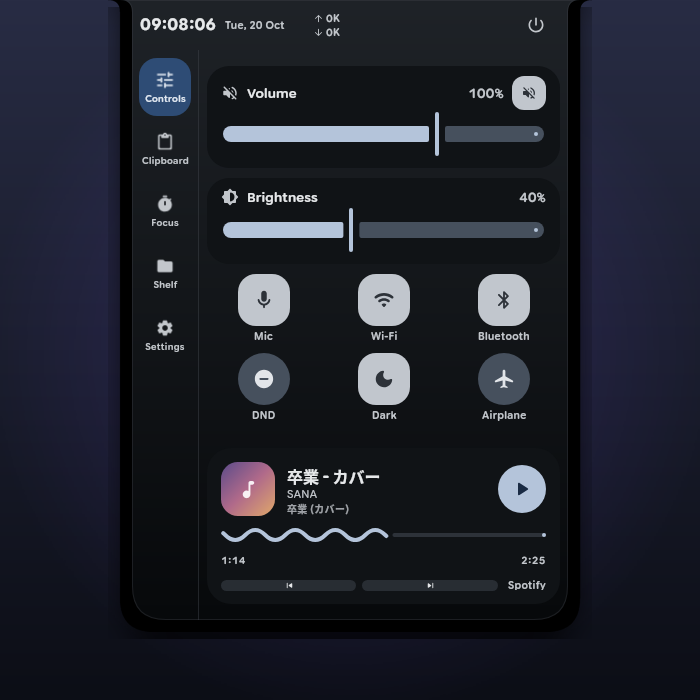
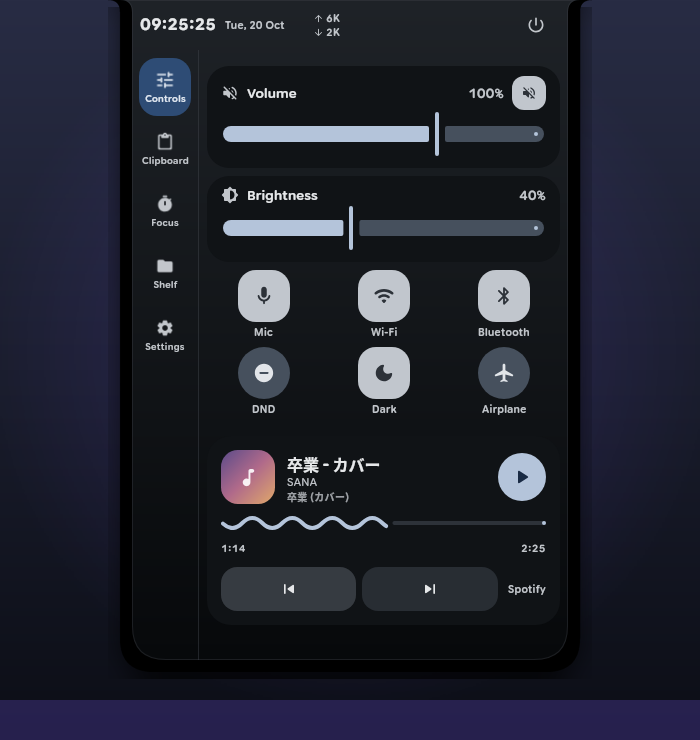
fix(ui): stop clipping the player in Controls
The Controls tab packs two slider cards, two toggle rows and the full player
into the expanded panel. With a track that reports progress the card ran past
the island edge and the transport row was cut off.

The expanded panel is now 660 dp tall (was 620), Controls uses 8 dp gaps instead
of 10, and the player sits 4 dp under the toggles. Verified on the installed
build: the last content row is 610 px with the island bottom at 660 px, so the
card keeps a 50 px margin, and the bottom 24 px of the panel contain no content.

README is rewritten in English around what the app does and how to use it, with
the closed bar as the hero image and the expanded panel explained further down.
Screenshots retaken on 1.0.2.

Bumps to 1.0.2.

diff --git a/ui/src/commonMain/kotlin/id/andreasmlbngaol/xtray/ui/modules/ControlsModule.kt b/ui/src/commonMain/kotlin/id/andreasmlbngaol/xtray/ui/modules/ControlsModule.kt
@@ -115,7 +115,7 @@ class ControlsModule(private val services: IslandServices) : IslandModule {
 
         Column(
             modifier = Modifier.fillMaxSize(),
-            verticalArrangement = Arrangement.spacedBy(10.dp),
+            verticalArrangement = Arrangement.spacedBy(8.dp),
         ) {
             LevelCard(
                 title = "Volume",
@@ -238,7 +238,7 @@ class ControlsModule(private val services: IslandServices) : IslandModule {
             }
 
             if (services.settings.current.mediaEnabled && services.mediaTrack != null) {
-                Spacer(modifier = Modifier.height(6.dp))
+                Spacer(modifier = Modifier.height(4.dp))
                 MediaPlayerCard(services)
             }
         }

diff --git a/ui/src/commonMain/kotlin/id/andreasmlbngaol/xtray/ui/island/IslandDimens.kt b/ui/src/commonMain/kotlin/id/andreasmlbngaol/xtray/ui/island/IslandDimens.kt
@@ -56,7 +56,8 @@ object IslandDimens {
 
     val Expanded = IslandSize(
         width = 460.dp,
-        height = 620.dp,
+        // Tall enough for Controls with the player card and its progress rows.
+        height = 660.dp,
         bottomRadius = 34.dp,
         filletRadius = 12.dp,
     )

diff --git a/README.md b/README.md
@@ -2,7 +2,7 @@
 
 # X-Tray
 
-**Dynamic Island untuk desktop Linux.**
+**A Dynamic Island for the Linux desktop.**
 
 [![Kotlin](https://img.shields.io/badge/Kotlin-2.4.21-7F52FF?style=for-the-badge&logo=kotlin&logoColor=white)](https://kotlinlang.org/)
 [![Compose Multiplatform](https://img.shields.io/badge/Compose%20Multiplatform-1.13-4285F4?style=for-the-badge&logo=jetpackcompose&logoColor=white)](https://www.jetbrains.com/compose-multiplatform/)
@@ -11,154 +11,154 @@
 [![Release](https://img.shields.io/github/v/release/andreasmlbngaol/x-tray?style=for-the-badge&logo=github&color=6E40C9)](https://github.com/andreasmlbngaol/x-tray/releases)
 [![License: Apache 2.0](https://img.shields.io/badge/License-Apache%202.0-D22128?style=for-the-badge&logo=apache&logoColor=white)](./LICENSE)
 
-<img src="docs/images/hero.png" alt="X-Tray dalam mode closed di tengah atas layar" width="760">
+<img src="docs/images/hero.png" alt="X-Tray closed, docked at the top centre of the screen" width="760">
 
 </div>
 
-X-Tray adalah satu panel kecil yang menempel di tengah atas layar. Saat tidak
-dipakai ia cuma selebar 300 px: jam, tanggal, kecepatan internet, dan baterai.
-Begitu kursor mendekat ia membesar untuk menampilkan musik dan notifikasi, dan
-kalau diklik ia terbuka penuh berisi kontrol cepat, clipboard, timer fokus,
-shelf, dan pengaturan.
+X-Tray is a single panel that sits at the top centre of your screen. At rest it
+is only 300 px wide: the time, the date, network speed, and the battery. When
+your pointer gets close it grows to show what is playing and the latest
+notification, and when you click it, it opens fully with quick controls, the
+clipboard, a focus timer, the shelf, and settings.
 
-Tidak ada window yang perlu dibuka, tidak ada ikon tambahan di taskbar. Semua
-yang biasanya tersebar di beberapa tempat diringkas jadi satu panel yang bisa
-dipanggil kapan saja.
+No window to keep around, no extra taskbar icon. Everything you usually look
+for in five different places lives in one panel you can summon from the top
+edge.
 
-## Yang bisa kamu lakukan
+## What it does
 
-- **Lihat sekilas tanpa klik.** Jam, tanggal, kecepatan upload/download, dan
-  baterai selalu ada di bar kecil itu.
-- **Dengar musik tanpa pindah aplikasi.** Judul, artis, dan album muncul di
-  peek; tombol putar, sebelumnya, dan berikutnya ada di sana.
-- **Baca notifikasi di satu tempat.** X-Tray mengambil alih notifikasi desktop,
-  jadi popup bawaan berhenti dan semua notifikasi masuk ke island.
-- **Atur volume dan kecerahan.** Dua slider, plus tombol mic, Wi-Fi, Bluetooth,
-  DND, mode gelap, dan airplane.
-- **Salin ulang teks lama.** Riwayat clipboard tersimpan selama aplikasi
-  berjalan; klik satu item untuk menyalinnya lagi.
-- **Simpan file sementara.** Tarik file ke island, lihat thumbnail gambar dan
-  video, buka atau hapus saat hover, dan tarik keluar lagi ke file manager.
-- **Fokus tanpa gangguan.** Timer dengan durasi bebas, hitung mundur besar di
-  peek, dan notifikasi saat sesi selesai.
-- **Sembunyikan saat tidak perlu.** Klik kanan membuatnya jadi garis tipis 120x6
-  di tepi atas; hover membukanya lagi.
+- **Glanceable at rest.** Time, date, upload and download speed, battery.
+- **Music without switching apps.** Title, artist, and album show up in peek,
+  with play, previous, and next buttons.
+- **One place for notifications.** X-Tray takes over desktop notifications, so
+  the stock popups stop and everything lands in the island.
+- **Volume and brightness.** Two sliders, plus mic, Wi-Fi, Bluetooth, do not
+  disturb, dark mode, and airplane.
+- **Clipboard history.** Every copied text stays in memory while the app runs;
+  click one to copy it again.
+- **A shelf for files.** Drag files onto the island, see thumbnails for images
+  and videos, open or delete them on hover, and drag them back out.
+- **Focus timer.** Type any duration, watch it count down in peek, get a
+  notification when the session ends.
+- **Out of the way when you want.** Right click shrinks it to a 120x6 hairline
+  at the top edge; hovering brings it back.
 
-## Tiga cara memakainya
+## How you use it
 
-<img src="docs/images/states.png" alt="Mode peek dan kartu notifikasi" width="900">
+<img src="docs/images/states.png" alt="Peek and the notification card" width="900">
 
-| Aksi | Yang terjadi |
+| You do | What happens |
 |---|---|
-| Diamkan | Bar kecil: jam, tanggal, kecepatan internet, baterai |
-| Arahkan kursor | Peek: jam bertumpuk, musik, notifikasi terbaru |
-| Klik | Expanded: semua modul terbuka |
-| Klik kanan | Menjadi garis tipis di tepi atas |
-| Tarik file | Shelf terbuka dan file masuk ke sana |
-| Esc / klik di luar | Menutup kembali ke bar kecil |
+| Leave it alone | Small bar: time, date, network speed, battery |
+| Move the pointer over it | Peek: stacked clock, music, latest notification |
+| Click | Expanded: every module |
+| Right click | Collapses to a hairline at the top edge |
+| Drag a file onto it | The shelf opens and takes the file |
+| Esc or click outside | Back to the small bar |
 
-Peek menutup sendiri saat kursor pergi. Expanded hanya menutup kalau kamu
-menekan Esc, mengklik di luar, atau berpindah window.
+Peek closes by itself when the pointer leaves. Expanded only closes on Esc, a
+click outside, or when you switch windows.
 
-## Expanded
+## The expanded panel
 
-<img src="docs/images/expanded.png" alt="X-Tray expanded dengan tab Controls" width="420">
+<img src="docs/images/expanded.png" alt="X-Tray expanded on the Controls tab" width="420">
 
-Rail di kiri berisi lima tab, dan **Controls** adalah tab pertama yang terbuka:
+The rail on the left has five tabs, and **Controls** is the one that opens by
+default:
 
-- **Controls** — volume, kecerahan, mic, Wi-Fi, Bluetooth, DND, mode gelap,
-  airplane, dan pemutar musik lengkap di bawah tombol-tombol itu.
-- **Focus** — timer fokus dengan durasi yang bisa diketik.
-- **Clipboard** — riwayat teks, klik untuk menyalin ulang.
-- **Shelf** — file yang kamu tarik ke island.
-- **Settings** — tema, warna aksen, reduce motion, autostart, perilaku hover,
-  pengambilalihan notifikasi, dan reset.
+- **Controls** — volume, brightness, mic, Wi-Fi, Bluetooth, do not disturb,
+  dark mode, airplane mode, and the full music player right under the buttons.
+- **Focus** — a focus timer with a duration you can type.
+- **Clipboard** — text history, click to copy again.
+- **Shelf** — the files you dragged onto the island.
+- **Settings** — theme, accent colour, reduce motion, autostart, hover timing,
+  notification takeover, and reset.
 
-Header di atas berisi jam, tanggal, kecepatan jaringan, tombol power, dan
-tombol tutup.
+The header above holds the clock, the date, network speed, a power menu, and the
+close button.
 
-## Notifikasi
+## Notifications
 
-Selama X-Tray berjalan, ia menjadi penerima notifikasi desktop. Saat bar dalam
-keadaan kecil, notifikasi masuk sebagai kartu 384x100 berisi nama aplikasi,
-judul, isi, dan tombol tutup. Saat peek, notifikasi muncul di baris bawah. Saat
-expanded, ia jadi banner di atas modul.
+While X-Tray runs, it is the desktop notification receiver. When the bar is
+small, a notification appears as a 384x100 card with the app name, title, body,
+and a close button. In peek it shows on the bottom row. In expanded it becomes a
+banner above the active module.
 
-Kalau kamu lebih suka popup bawaan desktop, matikan **Replace system
-notifications** di Settings. Saat X-Tray keluar, notifikasi desktop kembali
-normal dengan sendirinya.
+If you would rather keep the stock popups, turn off **Replace system
+notifications** in Settings. When X-Tray exits, the desktop gets notifications
+back on its own.
 
-## Pasang
+## Install
 
-### Dari rilis
+### From a release
 
-Unduh `.deb` terbaru dari [Releases](https://github.com/andreasmlbngaol/x-tray/releases),
-lalu:
+Download the latest `.deb` from [Releases](https://github.com/andreasmlbngaol/x-tray/releases),
+then:
 
 ```bash
-sudo apt install ./x-tray_1.0.1_amd64.deb
+sudo apt install ./x-tray_1.0.2_amd64.deb
 ```
 
-Setelah itu jalankan **X-Tray** dari menu aplikasi. Paket ini sudah membawa
-runtime Java-nya sendiri, jadi tidak perlu memasang JDK.
+Start **X-Tray** from your app menu. The package bundles its own Java runtime,
+so you do not need a JDK.
 
-### Dari source
+### From source
 
-Butuh JDK 21.
+You need JDK 21.
 
 ```bash
 ./gradlew :app:run
 ```
 
-Membuat paket sendiri:
+Build the package yourself:
 
 ```bash
 ./gradlew :app:packageReleaseDeb
 ```
 
-## Perintah cepat
+## Quick commands
 
-Saat aplikasi berjalan, perintah dikirim ke instance yang sama lewat socket:
+While the app is running, commands go to the same instance over a Unix socket:
 
 ```bash
-x-tray toggle        # buka/tutup expanded
-x-tray show          # tampilkan bar
-x-tray hide          # jadi garis tipis
-x-tray notify "Halo" # kirim notifikasi ke island
-x-tray dnd on        # jangan ganggu
-x-tray activity start 25 "Tulis laporan"
+x-tray toggle        # open or close the expanded panel
+x-tray show          # bring the bar back
+x-tray hide          # shrink to the hairline
+x-tray notify "Hi"   # send a notification into the island
+x-tray dnd on        # do not disturb
+x-tray activity start 25 "Write the report"
 x-tray quit
 ```
 
-Menjalankan `x-tray` lagi tanpa argumen tidak membuka window baru; ia hanya
-memunculkan instance yang sudah ada.
+Running `x-tray` again with no arguments does not open a second window; it just
+brings the running one forward.
 
-## Pengaturan yang sering dipakai
+## Settings worth knowing
 
-| Pengaturan | Gunanya |
+| Setting | What it does |
 |---|---|
-| Tema | Ikut sistem, selalu terang, atau selalu gelap |
-| Warna aksen | Lima preset atau kode HEX sendiri |
-| Reduce motion | Mematikan animasi kalau terasa mengganggu |
-| Autostart | Menjalankan X-Tray saat login |
-| Hide over maximized | Menyusut jadi garis saat ada window maximized |
-| Replace system notifications | Mengambil alih notifikasi desktop |
-| Jeda hover / tutup | Seberapa cepat peek terbuka dan menutup |
+| Theme | Follow the system, always light, or always dark |
+| Accent colour | Five presets or your own HEX code |
+| Reduce motion | Turns animations off |
+| Autostart | Start X-Tray when you log in |
+| Hide over maximized | Shrinks to the hairline while a maximized window is focused |
+| Replace system notifications | Takes over desktop notifications |
+| Hover and close delay | How quickly peek opens and closes |
 
-## Catatan
+## Notes
 
-- Berjalan di X11 dan di Wayland lewat XWayland.
-- Pengambilalihan notifikasi memakai helper notifikasi GNOME. Di desktop lain
-  X-Tray membiarkan notifikasi asli tetap hidup.
-- Ikon tray di GNOME perlu ekstensi AppIndicator.
-- Clipboard dan shelf hanya tersimpan selama aplikasi berjalan.
+- Works on X11 and on Wayland through XWayland.
+- Notification takeover relies on the GNOME notification helper. On other
+  desktops X-Tray leaves the original notifications alone.
+- The tray icon needs the AppIndicator extension on GNOME.
+- Clipboard and shelf are kept in memory only, for as long as the app runs.
 
-## Lisensi
+## License
 
-Kode X-Tray memakai **Apache License 2.0**. Lihat [LICENSE](./LICENSE).
+X-Tray is licensed under the **Apache License 2.0**. See [LICENSE](./LICENSE).
 
-Font **Google Sans Flex** dipakai dengan lisensi SIL Open Font License 1.1
-(`docs/licenses/google_sans_flex_OFL.txt`). PixelPlayer hanya dipelajari
-sebagai referensi desain; tidak ada kode atau asetnya yang disalin.
+The **Google Sans Flex** font is used under the SIL Open Font License 1.1
+(`docs/licenses/google_sans_flex_OFL.txt`). PixelPlayer was studied as a design
+reference only; none of its code or assets were copied.
 
 Copyright 2026 Andreas M Lbn Gaol
